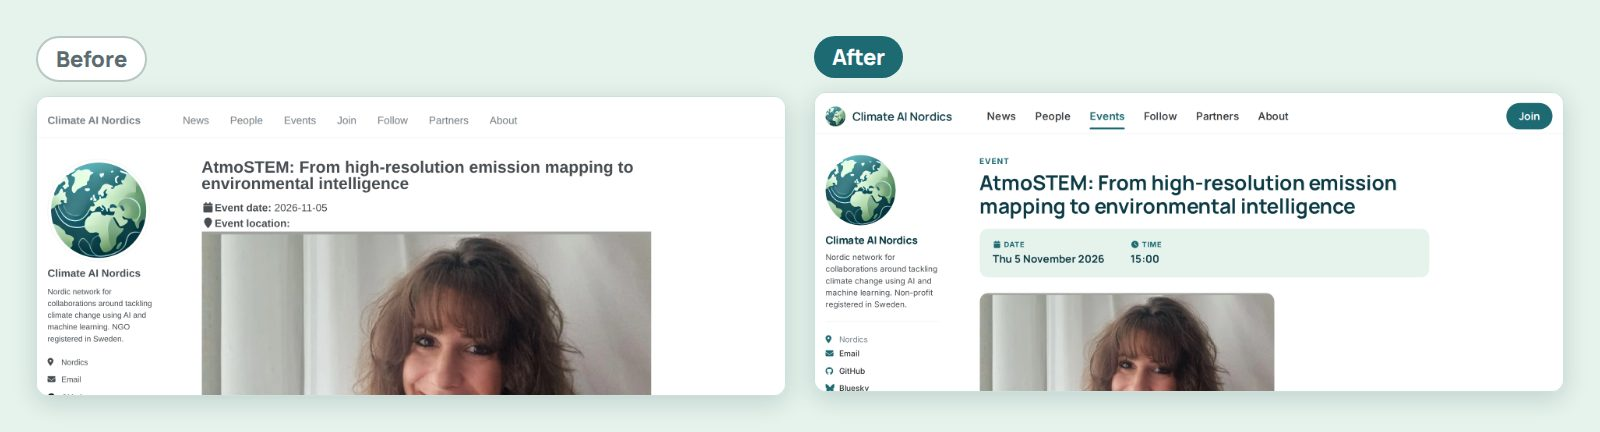
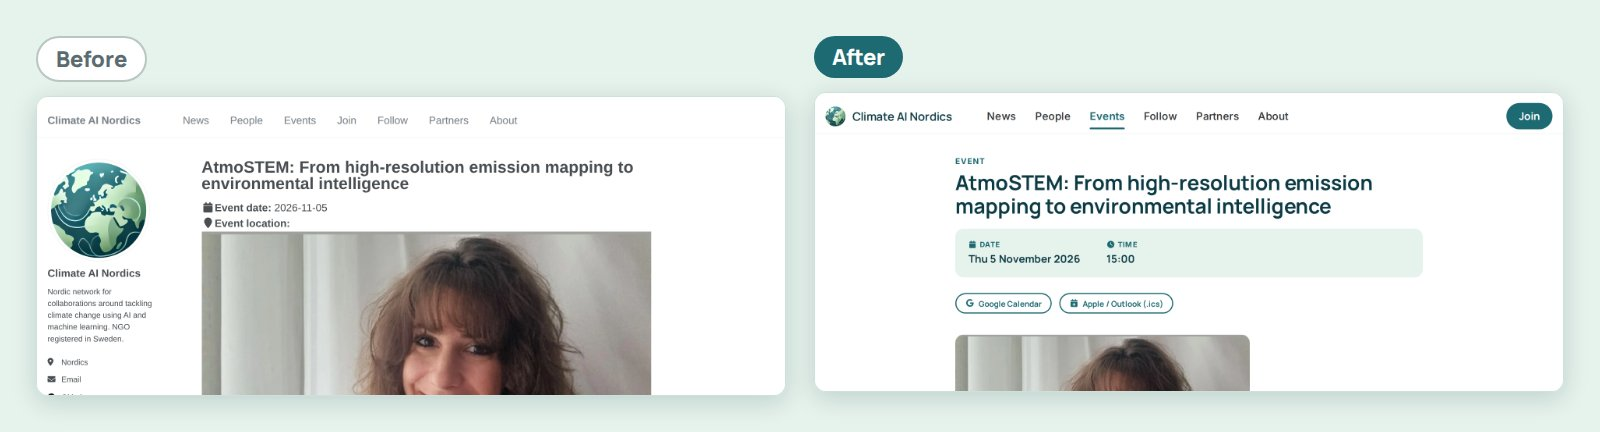
Update the two-year post: new People page, recent improvements, fresh event screenshot

Changed region(s): [[0.5, 0.3611, 0.8125, 0.9028], [0.5938, 0.3611, 0.875, 0.5116], [0.5, 0.7824, 0.5625, 0.9028]]

diff --git a/news/_posts/2026-10-26-two-years-new-website.md b/news/_posts/2026-10-26-two-years-new-website.md
@@ -50,6 +50,12 @@ The [Events](/events/) page is now split into **Upcoming** and **Past events**, 
 
 ![An event page before and after: the new design shows the date, weekday and time in a clear box](/images/posts/2026-10-26-two-years/event-before-after.jpg)
 
+### Find people in the network
+
+The [People](/people/) page is now easier to explore. The board is shown with photos, and all members are listed in a compact directory with their organisation, research topics and links to their profiles. You can **search by name, organisation or topic**, or pick one of the most common topics, such as Earth Observation or Biodiversity, to find people working on it.
+
+![The People page with a search box and topic buttons, here showing everyone working on biodiversity](/images/posts/2026-10-26-two-years/people-directory.jpg)
+
 ### Designed for your phone, too
 
 Many of you read our news on your phone, so every page has been checked on small screens. The menu folds into a compact button, the pages no longer scroll sideways, and the old sidebar no longer pushes the content down.
@@ -60,6 +66,9 @@ Many of you read our news on your phone, so every page has been checked on small
 
 - **Sharper images** throughout the news and event lists.
 - A **"More news / More events"** section at the end of each post, with related posts.
+- **Add events to your calendar** with one click (Google Calendar, or a file for Apple Calendar and Outlook).
+- Past events and job openings whose deadline has passed are now **clearly marked**, and the [Job openings](/job-openings/) page is split into current and past positions.
+- **Faster pages:** many images are now much smaller, so pages load quicker, especially on phones.
 - A new **footer** with quick links, contact details and our social media channels.
 - Cleaner [About](/about/), [Join](/join/), [Follow](/follow/) and [Partners](/partners/) pages, with clear buttons and a card for each of our partners.
 
